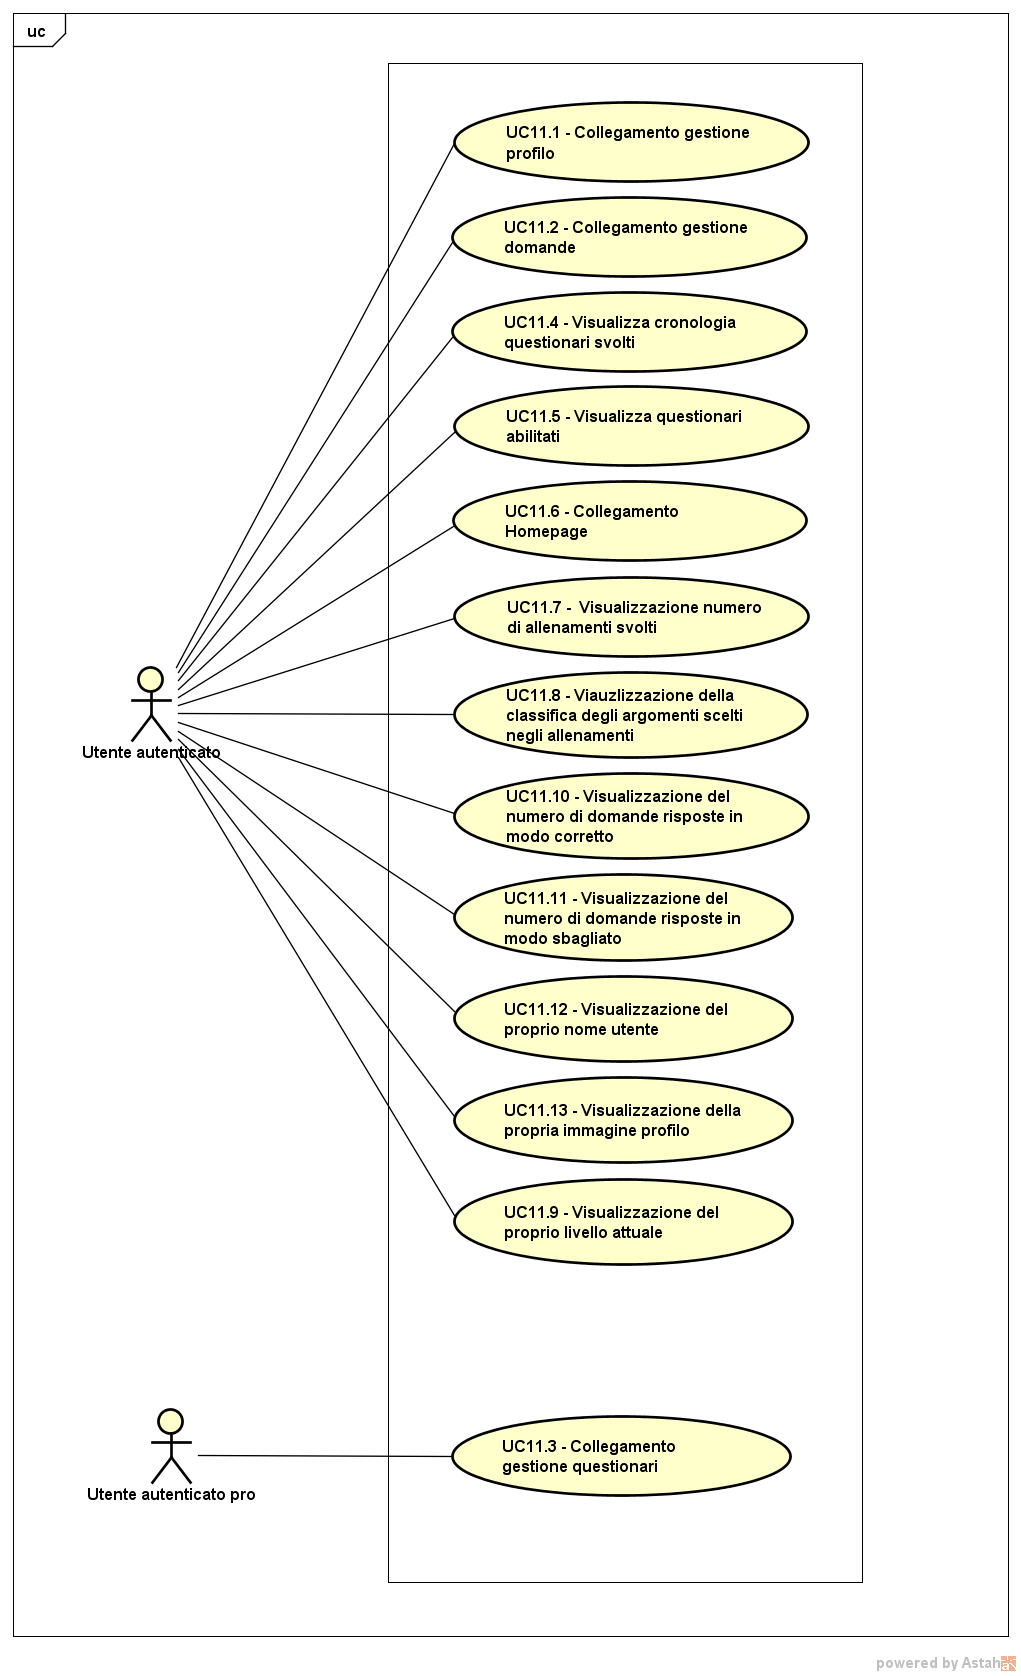
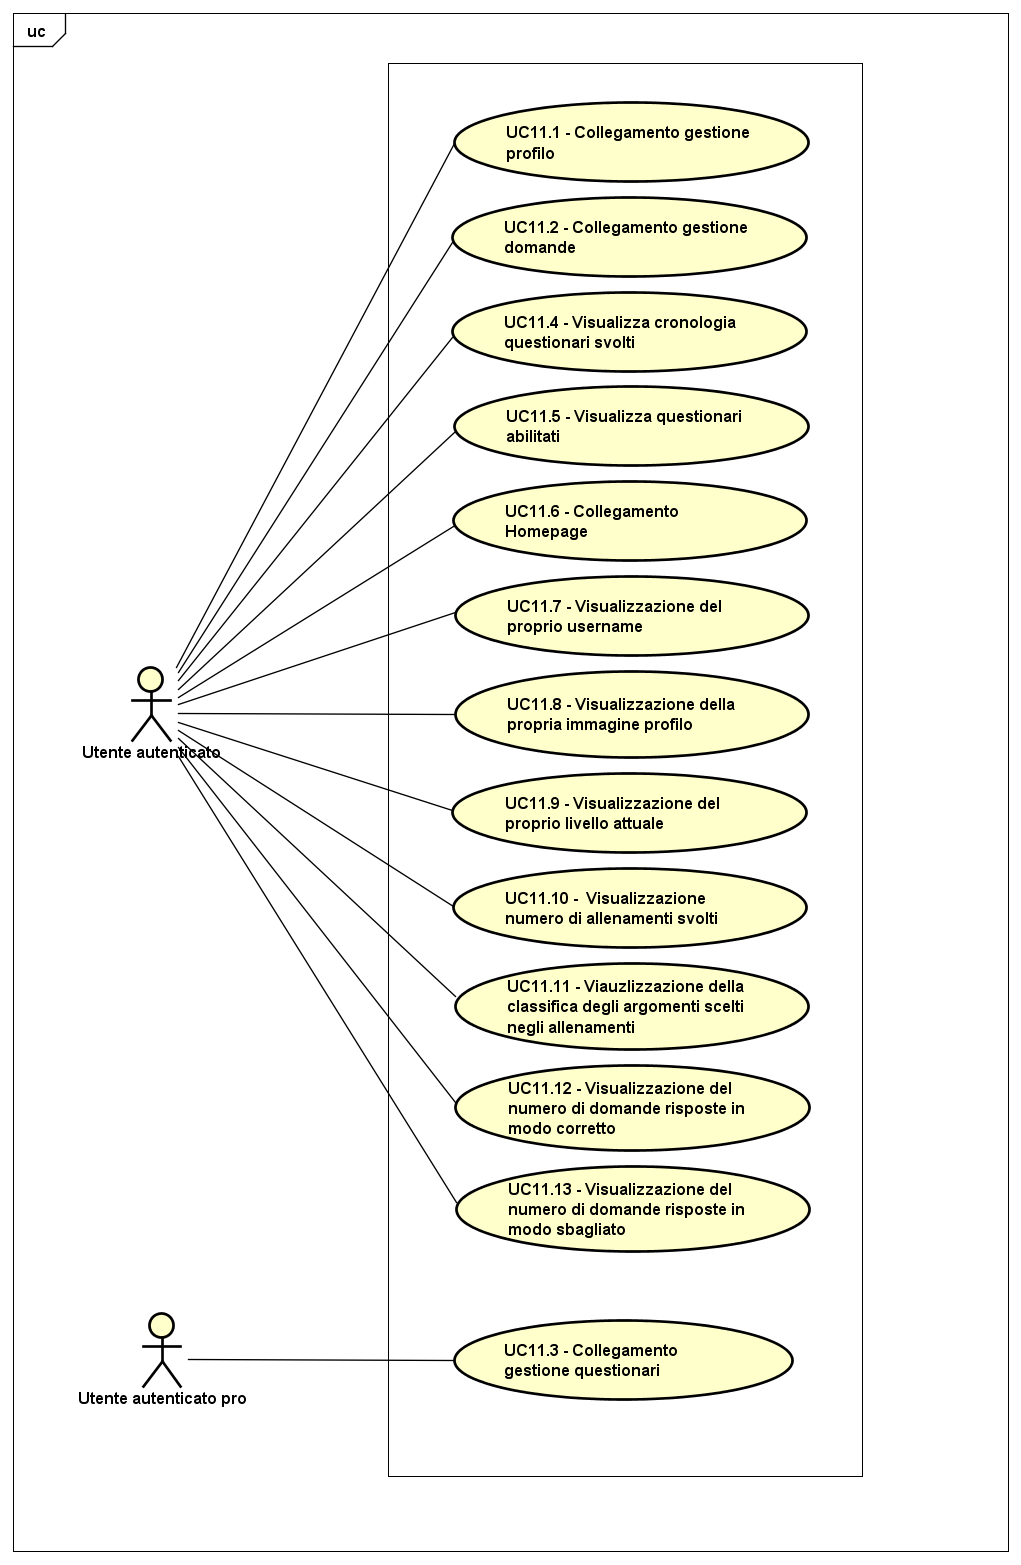
Correzione UC11

diff --git a/RR/AnalisiDeiRequisiti/sezioni/CasiD'uso/CasoD'usoUC11.tex b/RR/AnalisiDeiRequisiti/sezioni/CasiD'uso/CasoD'usoUC11.tex
@@ -126,22 +126,22 @@
 \item\textbf{Scenario principale}: l'attore seleziona l'opzione per andare nella pagina iniziale.
 \end{itemize}
 
-\subsubsection{Caso d'uso UC11.7: Visualizzazione numero di allenamenti svolti}
+\subsubsection{Caso d'uso UC11.7: Visualizzazione del proprio username}
 \begin{itemize}
 	\item\textbf{Attori}: utente autenticato, utente autenticato pro;
-	\item\textbf{Descrizione}: l'attore visualizza il numero di allenamenti svolti;
-	\item\textbf{Precondizione}: il sistema mostra la pagina dell'utente;
-	\item\textbf{Postcondizione}: il sistema visualizza il numero di allenamenti svolti;
-	\item\textbf{Scenario principale}: l'attore visualizza il numero di allenamenti svolti.
+	\item\textbf{Descrizione}: l'attore visualizza il proprio username;
+	\item\textbf{Precondizione}: il sistema visualizza la pagina utente;
+	\item\textbf{Postcondizione}: il sistema visualizza l'username dell'utente;
+	\item\textbf{Scenario principale}: l'attore visualizza il proprio nome utente;
 \end{itemize}
 
-\subsubsection{Caso d'uso UC11.8: Visualizzazione della classifica degli argomenti scelti negli allenamenti }
+\subsubsection{Caso d'uso UC11.8: Visualizzazione della propria immagine profilo }
 \begin{itemize}
 	\item\textbf{Attori}: utente autenticato, utente autenticato pro;
-	\item\textbf{Descrizione}: l'attore visualizza la classifica degli argomenti scelti negli allenamenti;
-	\item\textbf{Precondizione}: il sistema visualizza la pagina dell'utente;
-	\item\textbf{Postcondizione}: il sistema visualizza la classifica degli argomenti scelti negli allenamenti;
-	\item\textbf{Scenario principale}: l'attore visualizza la classifica delgi argomenti scelti negli allenamenti.
+	\item\textbf{Descrizione}: l'attore visualizza la propria immagine profilo;
+	\item\textbf{Precondizione}: il sistema visualizza la pagina utente;
+	\item\textbf{Postcondizione}: il sistema visualizza l'immagine profilo dell'utente;
+	\item\textbf{Scenario principale}: l'attore visualizza la propria immagine profilo;
 \end{itemize}
 
 \subsubsection{Caso d'uso UC11.9: Visualizzazione del proprio livello attuale }
@@ -153,7 +153,25 @@
 	\item\textbf{Scenario principale}: l'attore visualizza il proprio livello attuale.
 \end{itemize}
 
-\subsubsection{Caso d'uso UC11.10: Visualizzazione del numero di domande risposte in modo esatto}
+\subsubsection{Caso d'uso UC11.10: Visualizzazione numero di allenamenti svolti}
+\begin{itemize}
+	\item\textbf{Attori}: utente autenticato, utente autenticato pro;
+	\item\textbf{Descrizione}: l'attore visualizza il numero di allenamenti svolti;
+	\item\textbf{Precondizione}: il sistema mostra la pagina dell'utente;
+	\item\textbf{Postcondizione}: il sistema visualizza il numero di allenamenti svolti;
+	\item\textbf{Scenario principale}: l'attore visualizza il numero di allenamenti svolti.
+\end{itemize}
+
+\subsubsection{Caso d'uso UC11.11: Visualizzazione della classifica degli argomenti scelti negli allenamenti }
+\begin{itemize}
+	\item\textbf{Attori}: utente autenticato, utente autenticato pro;
+	\item\textbf{Descrizione}: l'attore visualizza la classifica degli argomenti scelti negli allenamenti;
+	\item\textbf{Precondizione}: il sistema visualizza la pagina dell'utente;
+	\item\textbf{Postcondizione}: il sistema visualizza la classifica degli argomenti scelti negli allenamenti;
+	\item\textbf{Scenario principale}: l'attore visualizza la classifica degli argomenti scelti negli allenamenti.
+\end{itemize}
+
+\subsubsection{Caso d'uso UC11.12: Visualizzazione del numero di domande risposte in modo esatto}
 \begin{itemize}
 	\item\textbf{Attori}: utente autenticato, utente autenticato pro;
 	\item\textbf{Descrizione}: l'attore visualizza il numero di domande risposte in modo corretto;
@@ -162,29 +180,11 @@
 	\item\textbf{Scenario principale}: l'attore visualizza il numero di domande risposte in modo corretto.
 \end{itemize}
 
-\subsubsection{Caso d'uso UC11.11: Visualizzazione del numero di domande risposte in modo sbagliato }
+\subsubsection{Caso d'uso UC11.13: Visualizzazione del numero di domande risposte in modo sbagliato }
 \begin{itemize}
 	\item\textbf{Attori}: utente autenticato, utente autenticato pro;
 	\item\textbf{Descrizione}: l'attore visualizza il numero di domande risposte in modo sbagliato;
 	\item\textbf{Precondizione}: il sistema visualizza la pagina utente;
 	\item\textbf{Postcondizione}: il sistema visualizza il numero di domande risposte in modo sbagliato dall'utente;
 	\item\textbf{Scenario principale}: l'attore visualizza il numero di domande risposte in modo sbagliato.
-\end{itemize}
-
-\subsubsection{Caso d'uso UC11.12: Visualizzazione del proprio nome utente }
-\begin{itemize}
-	\item\textbf{Attori}: utente autenticato, utente autenticato pro;
-	\item\textbf{Descrizione}: l'attore visualizza il proprio nome utente;
-	\item\textbf{Precondizione}: il sistema visualizza la pagina utente;
-	\item\textbf{Postcondizione}: il sistema visualizza il nome utente dell'utente;
-	\item\textbf{Scenario principale}: l'attore visualizza il proprio nome utente;
-\end{itemize}
-
-\subsubsection{Caso d'uso UC11.13: Visualizzazione della propria immagine profilo }
-\begin{itemize}
-	\item\textbf{Attori}: utente autenticato, utente autenticato pro;
-	\item\textbf{Descrizione}: l'attore visualizza la propria immagine profilo;
-	\item\textbf{Precondizione}: il sistema visualizza la pagina utente;
-	\item\textbf{Postcondizione}: il sistema visualizza l'immagine profilo dell'utente;
-	\item\textbf{Scenario principale}: l'attore visualizza la propria immagine profilo;
 \end{itemize}
